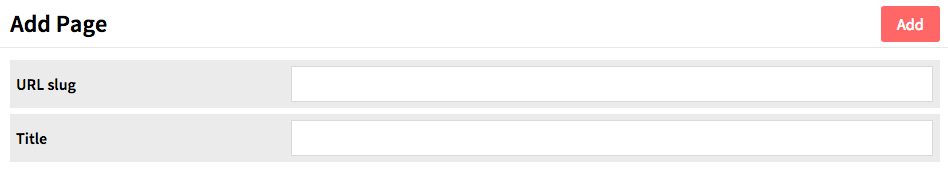
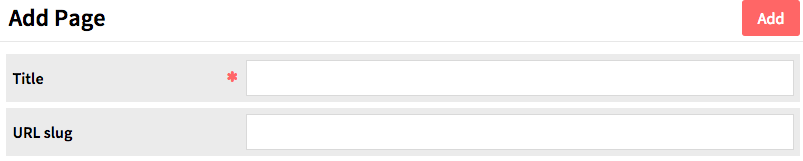
page, site updates
reflect optional nature of slug field for new pages and sites.

diff --git a/sites/sites.md b/sites/sites.md
@@ -15,12 +15,14 @@ Each row gives the title of a site, options to *view* (box with outward arrow), 
 Clicking on the site title will take you to the site’s admin show page. 
 
 ## Adding a site
-To create a site, click the *Add new site* button in the upper right-hand corner of the page. 
+To create a site, click the *Add new site* button in the upper right-hand corner of the site browse page.
+
+![add new site dialogs, with tabs for site info and item pool](../sites/sitesfiles/sites_addsite.png)
 
 You will need to:
-* create a *slug* for the site’s url. The url will be *installurl/site/slug*
-* Give your site a *title*
-* Select which *theme* you want for the site or whether to go with the installation default. Themes set the appearance of the site.
+* Give your site a *title* (required)
+* create a *slug* for the site’s url. The url will be *installurl/site/slug*. This is optional - if you leave this field blank, Omeka S will create a slug based on the site title.
+* Select which *theme* you want for the site or whether to go with the installation default. Themes set the appearance of the site. (required)
 
 In the upper right hand corner of the screen, next to the *Add* button, you can set the visibility of your site using the the *make public/private* button (eye icon).
 
@@ -29,6 +31,10 @@ In the upper right hand corner of the screen, next to the *Add* button, you can 
 ![make private button showing an eye icon with a diagonal slash through it](../content/contentfiles/item_private.png)  Private
 
 You will probably want to leave the site Private until you have added some content.
+
+You can, if you want, set up the [item pool](../sites/site_pages.md) at this point, but it is not necessary.
+
+When you are ready, click the *Add* button in the upper right corner. Once the page is created, you will be redirected to the site info tab of the site management. 
 
 ## Manage a site
 To manage a site, navigate to the *Sites* tab from the Omeka S Admin Dashboard. Click either on the site’s title or the edit (pencil) button in the list of sites. 

diff --git a/sites/site_pages.md b/sites/site_pages.md
@@ -10,12 +10,14 @@ Once you are editing the site, click the Pages tab in the left hand navigation.
 
 ![Left hand menu options for editing sites, with General, Settings, and Pages links](../sites/sitesfiles/sitepage_nav.png)
 
+When you create a new site, Omeka S automatically adds a page titled *Welcome* with a single HTML block (see below). You can edit this page or delete it.
+
 ## Adding Pages
 From the page for the site, click the Pages tab. Then click the "Add a Page" button on the left side of that tab to be taken to the Add Page function.
 
 ![Page view showing the fields for Add Page](../sites/sitesfiles/sitepg_add.png)
 
-To add a page you must enter a *URL slug* and a *Title*. Both of these can be edited later but are required to create the page.  A slug is the portion of the url and can only contain letters, numbers, and hyphens; no other characters are allowed.
+To add a page you must enter a *Title*. You can also enter a *URL Slug*. Both of these can be edited later but are required to create the page. If you do not enter a slug, Omeka S will create one from the page title. A slug is the page’s portion of the url and can only contain letters, numbers, and hyphens; no other characters are allowed.
 
 Once you have entered this information, click the Add button in the upper right hand corner of the browser window.
 
